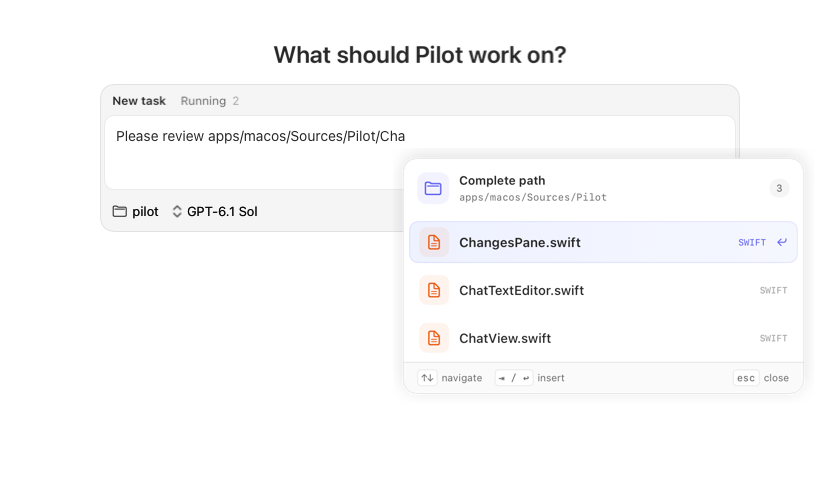
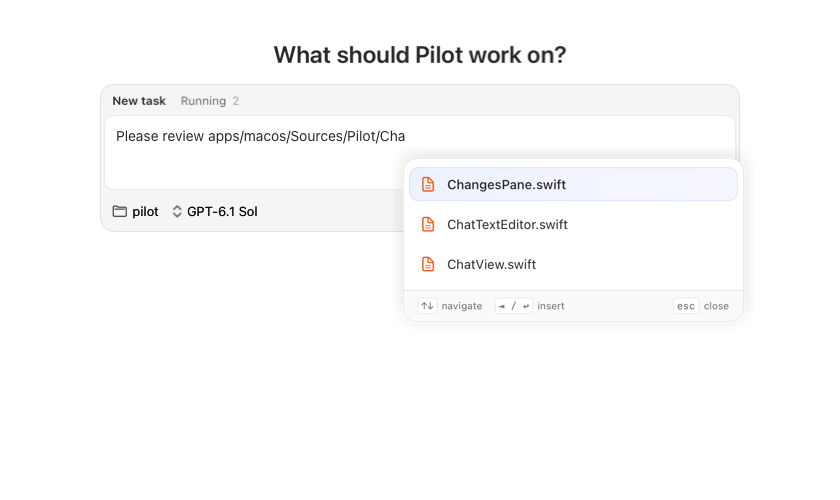
refactor(macos): simplify the path completion picker

diff --git a/apps/macos/Sources/Pilot/PathCompletionPicker.swift b/apps/macos/Sources/Pilot/PathCompletionPicker.swift
@@ -4,19 +4,23 @@ import SwiftUI
 @MainActor
 final class PathPickerModel: ObservableObject {
     let candidates: [String]
-    let folder: String
     @Published var selected = 0
     var choose: ((Int) -> Void)?
 
-    init(candidates: [String], folder: String) {
+    init(candidates: [String]) {
         self.candidates = candidates
-        self.folder = folder
     }
 
     func move(_ offset: Int) {
         guard !candidates.isEmpty else { return }
         selected = (selected + offset + candidates.count) % candidates.count
     }
+}
+
+private enum PathPickerMetrics {
+    static let rowHeight: CGFloat = 40
+    // Keyboard footer, list padding, and space for the card's shadow.
+    static let chromeHeight: CGFloat = 64
 }
 
 private final class PathPickerPanel: NSPanel {
@@ -33,8 +37,8 @@ final class PathCompletionPicker {
     private var resignObserver: NSObjectProtocol?
     private let onDismiss: () -> Void
 
-    init(candidates: [String], folder: String, onChoose: @escaping (Int) -> Void, onDismiss: @escaping () -> Void) {
-        model = PathPickerModel(candidates: candidates, folder: folder)
+    init(candidates: [String], onChoose: @escaping (Int) -> Void, onDismiss: @escaping () -> Void) {
+        model = PathPickerModel(candidates: candidates)
         model.choose = onChoose
         self.onDismiss = onDismiss
     }
@@ -43,7 +47,8 @@ final class PathCompletionPicker {
 
     static func frame(caret: CGRect, screen: CGRect, count: Int) -> CGRect {
         let visible = screen.insetBy(dx: 12, dy: 12)
-        let size = CGSize(width: min(420, visible.width), height: min(CGFloat(min(count, 6)) * 48 + 112, visible.height))
+        let height = CGFloat(min(count, 6)) * PathPickerMetrics.rowHeight + PathPickerMetrics.chromeHeight
+        let size = CGSize(width: min(360, visible.width), height: min(height, visible.height))
         let x = min(max(caret.minX - 12, visible.minX), visible.maxX - size.width)
         let below = caret.minY - size.height - 4
         let preferred = below >= visible.minY ? below : caret.maxY + 4
@@ -63,7 +68,7 @@ final class PathCompletionPicker {
         panel.hidesOnDeactivate = true
         panel.isReleasedWhenClosed = false
         panel.animationBehavior = .none
-        panel.contentView = NSHostingView(rootView: PathPickerView(model: model, listHeight: max(0, frame.height - 112)))
+        panel.contentView = NSHostingView(rootView: PathPickerView(model: model, listHeight: max(0, frame.height - PathPickerMetrics.chromeHeight)))
         parent.addChildWindow(panel, ordered: .above)
         panel.orderFront(nil)
         self.panel = panel
@@ -96,27 +101,6 @@ private struct PathPickerView: View {
 
     var body: some View {
         VStack(spacing: 0) {
-            HStack(spacing: 10) {
-                Image(systemName: "folder")
-                    .font(.system(size: 15, weight: .medium))
-                    .foregroundStyle(accent)
-                    .frame(width: 32, height: 32)
-                    .background(accent.opacity(0.08), in: RoundedRectangle(cornerRadius: 9))
-                VStack(alignment: .leading, spacing: 3) {
-                    Text("Complete path").font(.system(size: 12, weight: .semibold)).foregroundStyle(Theme.foreground)
-                    Text(model.folder.abbreviatingHome)
-                        .font(.system(size: 10, design: .monospaced))
-                        .foregroundStyle(Theme.mutedForeground)
-                        .lineLimit(1).truncationMode(.middle)
-                }
-                Spacer(minLength: 4)
-                Text("\(model.candidates.count)")
-                    .font(.system(size: 10, weight: .medium, design: .monospaced))
-                    .foregroundStyle(Theme.mutedForeground)
-                    .padding(.horizontal, 7).padding(.vertical, 3)
-                    .background(Theme.muted, in: Capsule())
-            }
-            .padding(.horizontal, 14).frame(height: 60)
             ScrollViewReader { proxy in
                 ScrollView {
                     LazyVStack(spacing: 0) {
@@ -129,6 +113,7 @@ private struct PathPickerView: View {
                 .frame(height: listHeight)
                 .onChange(of: model.selected) { _, value in proxy.scrollTo(value) }
             }
+            .padding(.vertical, 6)
             HStack(spacing: 12) {
                 key("↑↓", "navigate")
                 key("⇥ / ↩", "insert")
@@ -160,18 +145,13 @@ private struct PathPickerView: View {
             HStack(spacing: 10) {
                 Image(systemName: directory ? "folder.fill" : "doc.text")
                     .font(.system(size: 14, weight: .medium)).foregroundStyle(tint)
-                    .frame(width: 30, height: 30)
-                    .background(tint.opacity(0.08), in: RoundedRectangle(cornerRadius: 8))
-                Text(name).font(.system(size: 13, weight: selected ? .semibold : .medium))
+                    .frame(width: 18)
+                Text(name).font(.system(size: 13, weight: selected ? .medium : .regular))
                     .foregroundStyle(Theme.foreground).lineLimit(1).truncationMode(.middle)
                 if directory { Text("/").foregroundStyle(Theme.faintForeground) }
                 Spacer(minLength: 4)
-                Text(directory ? "FOLDER" : (ext.isEmpty ? "FILE" : ext.uppercased()))
-                    .font(.system(size: 9, weight: .medium, design: .monospaced))
-                    .foregroundStyle(selected ? accent : Theme.faintForeground)
-                if selected { Image(systemName: "arrow.turn.down.left").font(.system(size: 10, weight: .medium)).foregroundStyle(accent) }
             }
-            .padding(.horizontal, 10).frame(height: 42)
+            .padding(.horizontal, 10).frame(height: 34)
             .background {
                 if selected {
                     RoundedRectangle(cornerRadius: 9)
@@ -182,7 +162,7 @@ private struct PathPickerView: View {
             .contentShape(RoundedRectangle(cornerRadius: 9))
         }
         .buttonStyle(.plain)
-        .frame(height: 48)
+        .frame(height: PathPickerMetrics.rowHeight)
         .onHover { if $0 { model.selected = index } }
         .help(candidate)
         .accessibilityLabel("\(name), \(directory ? "folder" : "file")")

diff --git a/apps/macos/Tests/PilotTests/ChatTextEditorTests.swift b/apps/macos/Tests/PilotTests/ChatTextEditorTests.swift
@@ -13,6 +13,78 @@ private func pickerKey(_ code: UInt16, _ characters: String, flags: NSEvent.Modi
                                  characters: characters, charactersIgnoringModifiers: characters, isARepeat: false, keyCode: code))
 }
 
+@Test @MainActor func pickerKeysTakePrecedenceOverQueueSaveAndCancel() throws {
+    _ = NSApplication.shared
+    let directory = FileManager.default.temporaryDirectory.appendingPathComponent(UUID().uuidString)
+    try FileManager.default.createDirectory(at: directory, withIntermediateDirectories: true)
+    defer { try? FileManager.default.removeItem(at: directory) }
+    for file in ["README.md", "Report.txt"] { try Data().write(to: directory.appendingPathComponent(file)) }
+    let editor = SubmitTextView()
+    editor.completionDirectory = directory.path
+    editor.string = "R"
+    editor.setSelectedRange(NSRange(location: 1, length: 0))
+    var saves = 0
+    var cancellations = 0
+    var queueNavigations = 0
+    editor.onSubmit = { _ in saves += 1 }
+    editor.onCancel = { cancellations += 1; return true }
+    editor.onNavigateQueue = { _ in queueNavigations += 1; return true }
+    editor.insertTab(nil)
+    editor.keyDown(with: try pickerKey(125, "\u{f701}"))
+    #expect(editor.pathPicker?.model.selected == 1)
+    editor.keyDown(with: try pickerKey(126, "\u{f700}"))
+    #expect(editor.pathPicker?.model.selected == 0)
+    editor.keyDown(with: try pickerKey(48, "\t", flags: .shift))
+    #expect(editor.pathPicker?.model.selected == 1)
+    editor.keyDown(with: try pickerKey(53, "\u{1b}"))
+    #expect(editor.pathPicker == nil)
+    #expect(editor.string == "R")
+    #expect(cancellations == 0)
+    #expect(queueNavigations == 0)
+    editor.keyDown(with: try pickerKey(53, "\u{1b}"))
+    #expect(cancellations == 1)
+    for code: UInt16 in [36, 76, 48] {
+        editor.string = "R"
+        editor.setSelectedRange(NSRange(location: 1, length: 0))
+        editor.insertTab(nil)
+        editor.keyDown(with: try pickerKey(code, code == 48 ? "\t" : "\r"))
+        #expect(editor.string == "README.md")
+        #expect(editor.pathPicker == nil)
+        #expect(saves == 0)
+    }
+    editor.keyDown(with: try pickerKey(36, "\r"))
+    #expect(saves == 1)
+}
+
+@Test @MainActor func optionArrowsStillNavigateQueueAndDismissThePicker() throws {
+    _ = NSApplication.shared
+    let directory = FileManager.default.temporaryDirectory.appendingPathComponent(UUID().uuidString)
+    try FileManager.default.createDirectory(at: directory, withIntermediateDirectories: true)
+    defer { try? FileManager.default.removeItem(at: directory) }
+    for file in ["README.md", "Report.txt"] { try Data().write(to: directory.appendingPathComponent(file)) }
+    let editor = SubmitTextView()
+    editor.completionDirectory = directory.path
+    editor.string = "R"
+    editor.setSelectedRange(NSRange(location: 1, length: 0))
+    var directions: [String] = []
+    editor.onNavigateQueue = { directions.append($0 == .up ? "up" : "down"); return true }
+    for code: UInt16 in [126, 125] {
+        editor.keyDown(with: try pickerKey(code, "", flags: .option))
+        editor.insertTab(nil)
+        #expect(editor.pathPicker != nil)
+        editor.keyDown(with: try pickerKey(code, "", flags: .option))
+        #expect(editor.pathPicker == nil)
+        #expect(editor.string == "R")
+    }
+    #expect(directions == ["up", "up", "down", "down"])
+    editor.keyDown(with: try pickerKey(126, "", flags: [.option, .shift]))
+    #expect(directions.count == 4)
+    editor.setMarkedText("候", selectedRange: NSRange(location: 1, length: 0),
+                         replacementRange: NSRange(location: NSNotFound, length: 0))
+    editor.keyDown(with: try pickerKey(126, "", flags: .option))
+    #expect(directions.count == 4)
+}
+
 @Test @MainActor func returnHandledByCompletionDoesNotAlsoSubmit() throws {
     _ = NSApplication.shared
     let directory = FileManager.default.temporaryDirectory.appendingPathComponent(UUID().uuidString)
@@ -78,6 +150,9 @@ private func pickerKey(_ code: UInt16, _ characters: String, flags: NSEvent.Modi
 }
 
 @Test @MainActor func pathPickerStaysWithinSmallAndSecondaryScreens() {
+    let compact = PathCompletionPicker.frame(caret: CGRect(x: 300, y: 600, width: 0, height: 18),
+                                             screen: CGRect(x: 0, y: 0, width: 1440, height: 900), count: 3)
+    #expect(compact.height == 184) // Three compact rows plus keyboard footer and insets, no header.
     for screen in [CGRect(x: 0, y: 0, width: 380, height: 300), CGRect(x: -1440, y: 0, width: 1440, height: 900)] {
         for caret in [CGRect(x: screen.minX, y: screen.minY, width: 0, height: 18),
                       CGRect(x: screen.maxX, y: screen.maxY, width: 0, height: 18)] {

diff --git a/apps/macos/Sources/Pilot/ChatTextEditor.swift b/apps/macos/Sources/Pilot/ChatTextEditor.swift
@@ -200,8 +200,7 @@ final class SubmitTextView: NSTextView {
         dismissPathPicker()
         let original = string
         let selection = selectedRange()
-        let parent = (candidates[0] as NSString).deletingLastPathComponent
-        let picker = PathCompletionPicker(candidates: candidates, folder: parent.isEmpty ? completionDirectory : parent) { [weak self] index in
+        let picker = PathCompletionPicker(candidates: candidates) { [weak self] index in
             guard let self else { return }
             self.dismissPathPicker()
             guard self.string == original, self.selectedRange() == selection else { return }

diff --git a/PLAN.md b/PLAN.md
@@ -246,8 +246,8 @@ reports), producing a morning summary in the app and Slack.
 - Archive inactive chats without deleting their history or workspace. Browse archived chats globally
   or per project, search them, and restore them to continue the conversation. Stop running chats first.
 - Task and chat composers complete local file and folder paths on Tab, relative to the selected project
-  or session working directory; absolute paths and `~/` work too. A floating path picker shows file
-  and folder icons, the current folder, and keyboard hints for multiple matches.
+  or session working directory; absolute paths and `~/` work too. A compact floating path picker shows
+  file and folder icons with keyboard hints at the bottom, without a header or redundant metadata.
 - Chat footer: live context-window estimate and Claude/Codex subscription windows with reset times,
   supplied by the user's pi-extensions `usage` event bus (no duplicate polling or credential store).
 - Responsiveness: decode conversation snapshots and prepare transcript rows/tool summaries off the UI
